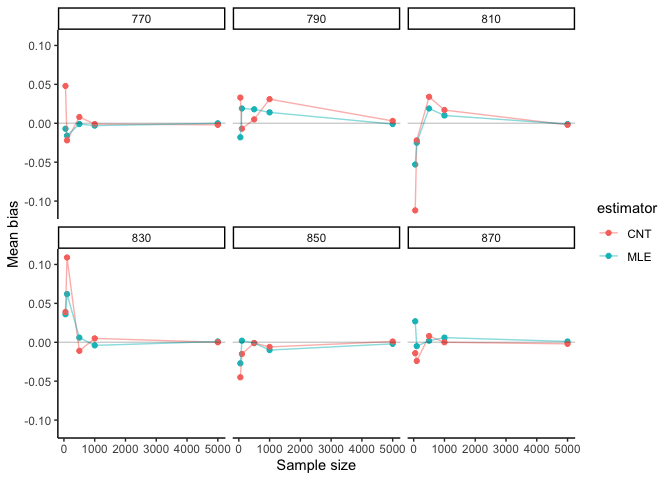
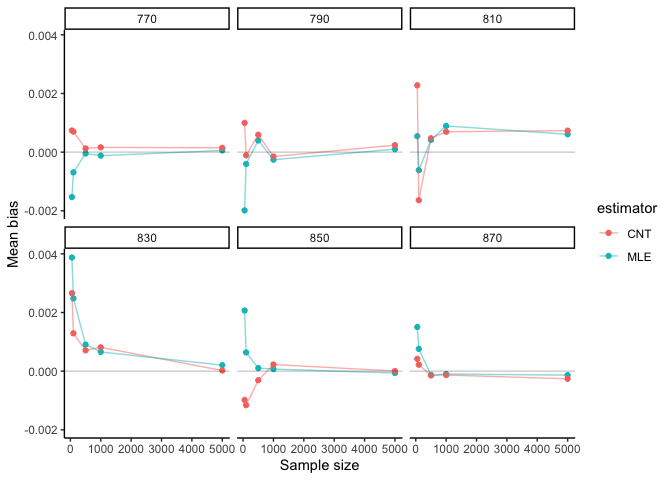
change to empirical variance

diff --git a/README.md b/README.md
@@ -74,108 +74,49 @@ sd(count_1)
 set.seed(222)
 library(data.table)
 library(dplyr)
-results <- rbindlist(lapply(c(50, 100, 500, 1000, 5000), function(n){
+results <- rbindlist(lapply(1:1000, function(i){
+  rbindlist(lapply(c(50, 100, 500, 1000, 5000), function(n){
   rbindlist(lapply(c(770, 790, 810, 830, 850, 870), function(param){
     x_pois <- round(rpois(n, param))
     
     # calculate lambda hat
     MLE_pois <- sum(x_pois)/n
-    
     # calculate true probability at cutoff
     trueProb <- ppois(816, param)
     
     par_MLE <- ppois(816, MLE_pois)
-    par_CNT <- mean(x_pois <= 816)
-    
-    # calculate asymptotic variance 
-    v_MLE <- par_MLE*(1-par_MLE)/sqrt(n)
-    v_CNT <- par_CNT*(1-par_CNT)/sqrt(n)
-    
-    # calculate MSE
-    MSE_MLE <- mean((par_MLE - trueProb)^2)
-    MSE_CNT <- mean((par_CNT - trueProb)^2)
+    par_CNT <- sum(x_pois <= 816)/n
+  
     
     # return estimates in data table
     data.table(n = c(n, n),
                estimator = factor(c("MLE", "CNT")),
                param_mu = c(param, param),
                trueProb = c(trueProb, trueProb), 
-               #estimate = c(MLE_pois, CNT),
-               #variances = c(var_pois, var_norm),
-               prob = c(par_MLE, par_CNT),
-               asymptotic_var = c(v_MLE, v_CNT),
-               MSE = c(MSE_MLE, MSE_CNT)
+               prob = c(par_MLE, par_CNT)
                )
   }))
   }))
+}))
 options(scipen = 999)
 results <- results %>%
-  mutate_if(is.numeric, round, digits=3)
+  mutate_if(is.numeric, round, digits=3) %>%
+  arrange(n, param_mu)
 results
 ```
 
-    ##        n estimator param_mu trueProb  prob asymptotic_var   MSE
-    ##  1:   50       MLE      770    0.952 0.945          0.007 0.000
-    ##  2:   50       CNT      770    0.952 1.000          0.000 0.002
-    ##  3:   50       MLE      790    0.827 0.809          0.022 0.000
-    ##  4:   50       CNT      790    0.827 0.860          0.017 0.001
-    ##  5:   50       MLE      810    0.592 0.539          0.035 0.003
-    ##  6:   50       CNT      810    0.592 0.480          0.035 0.013
-    ##  7:   50       MLE      830    0.321 0.357          0.032 0.001
-    ##  8:   50       CNT      830    0.321 0.360          0.033 0.001
-    ##  9:   50       MLE      850    0.125 0.098          0.013 0.001
-    ## 10:   50       CNT      850    0.125 0.080          0.010 0.002
-    ## 11:   50       MLE      870    0.034 0.061          0.008 0.001
-    ## 12:   50       CNT      870    0.034 0.020          0.003 0.000
-    ## 13:  100       MLE      770    0.952 0.936          0.006 0.000
-    ## 14:  100       CNT      770    0.952 0.930          0.007 0.000
-    ## 15:  100       MLE      790    0.827 0.846          0.013 0.000
-    ## 16:  100       CNT      790    0.827 0.820          0.015 0.000
-    ## 17:  100       MLE      810    0.592 0.567          0.025 0.001
-    ## 18:  100       CNT      810    0.592 0.570          0.025 0.001
-    ## 19:  100       MLE      830    0.321 0.383          0.024 0.004
-    ## 20:  100       CNT      830    0.321 0.430          0.025 0.012
-    ## 21:  100       MLE      850    0.125 0.127          0.011 0.000
-    ## 22:  100       CNT      850    0.125 0.110          0.010 0.000
-    ## 23:  100       MLE      870    0.034 0.029          0.003 0.000
-    ## 24:  100       CNT      870    0.034 0.010          0.001 0.001
-    ## 25:  500       MLE      770    0.952 0.951          0.002 0.000
-    ## 26:  500       CNT      770    0.952 0.960          0.002 0.000
-    ## 27:  500       MLE      790    0.827 0.845          0.006 0.000
-    ## 28:  500       CNT      790    0.827 0.832          0.006 0.000
-    ## 29:  500       MLE      810    0.592 0.611          0.011 0.000
-    ## 30:  500       CNT      810    0.592 0.626          0.010 0.001
-    ## 31:  500       MLE      830    0.321 0.327          0.010 0.000
-    ## 32:  500       CNT      830    0.321 0.310          0.010 0.000
-    ## 33:  500       MLE      850    0.125 0.124          0.005 0.000
-    ## 34:  500       CNT      850    0.125 0.124          0.005 0.000
-    ## 35:  500       MLE      870    0.034 0.036          0.002 0.000
-    ## 36:  500       CNT      870    0.034 0.042          0.002 0.000
-    ## 37: 1000       MLE      770    0.952 0.949          0.002 0.000
-    ## 38: 1000       CNT      770    0.952 0.951          0.001 0.000
-    ## 39: 1000       MLE      790    0.827 0.841          0.004 0.000
-    ## 40: 1000       CNT      790    0.827 0.858          0.004 0.001
-    ## 41: 1000       MLE      810    0.592 0.602          0.008 0.000
-    ## 42: 1000       CNT      810    0.592 0.609          0.008 0.000
-    ## 43: 1000       MLE      830    0.321 0.317          0.007 0.000
-    ## 44: 1000       CNT      830    0.321 0.326          0.007 0.000
-    ## 45: 1000       MLE      850    0.125 0.115          0.003 0.000
-    ## 46: 1000       CNT      850    0.125 0.119          0.003 0.000
-    ## 47: 1000       MLE      870    0.034 0.040          0.001 0.000
-    ## 48: 1000       CNT      870    0.034 0.034          0.001 0.000
-    ## 49: 5000       MLE      770    0.952 0.952          0.001 0.000
-    ## 50: 5000       CNT      770    0.952 0.950          0.001 0.000
-    ## 51: 5000       MLE      790    0.827 0.826          0.002 0.000
-    ## 52: 5000       CNT      790    0.827 0.830          0.002 0.000
-    ## 53: 5000       MLE      810    0.592 0.591          0.003 0.000
-    ## 54: 5000       CNT      810    0.592 0.590          0.003 0.000
-    ## 55: 5000       MLE      830    0.321 0.322          0.003 0.000
-    ## 56: 5000       CNT      830    0.321 0.321          0.003 0.000
-    ## 57: 5000       MLE      850    0.125 0.123          0.002 0.000
-    ## 58: 5000       CNT      850    0.125 0.126          0.002 0.000
-    ## 59: 5000       MLE      870    0.034 0.035          0.000 0.000
-    ## 60: 5000       CNT      870    0.034 0.032          0.000 0.000
-    ##        n estimator param_mu trueProb  prob asymptotic_var   MSE
+    ##           n estimator param_mu trueProb  prob
+    ##     1:   50       MLE      770    0.952 0.945
+    ##     2:   50       CNT      770    0.952 1.000
+    ##     3:   50       MLE      770    0.952 0.974
+    ##     4:   50       CNT      770    0.952 1.000
+    ##     5:   50       MLE      770    0.952 0.946
+    ##    ---                                       
+    ## 59996: 5000       CNT      870    0.034 0.035
+    ## 59997: 5000       MLE      870    0.034 0.034
+    ## 59998: 5000       CNT      870    0.034 0.035
+    ## 59999: 5000       MLE      870    0.034 0.032
+    ## 60000: 5000       CNT      870    0.034 0.027
 
 ## Evaluation
 
@@ -188,12 +129,12 @@ head(bias_sim)
 ```
 
     ##     n param_mu estimator mean_bias
-    ## 1: 50      770       MLE    -0.007
-    ## 2: 50      770       CNT     0.048
-    ## 3: 50      790       MLE    -0.018
-    ## 4: 50      790       CNT     0.033
-    ## 5: 50      810       MLE    -0.053
-    ## 6: 50      810       CNT    -0.112
+    ## 1: 50      770       MLE -0.001531
+    ## 2: 50      770       CNT  0.000740
+    ## 3: 50      790       MLE -0.001987
+    ## 4: 50      790       CNT  0.001000
+    ## 5: 50      810       MLE  0.000545
+    ## 6: 50      810       CNT  0.002280
 
 ``` r
 library(ggplot2)
@@ -214,17 +155,17 @@ bias_sim %>%
 #### MSE
 
 ``` r
-mse_sim <- results[, .(mean_mse = asymptotic_var+ mean((prob - trueProb)^2)), by = c("n", "param_mu", "estimator")]
+mse_sim <- results[, .(mean_mse = mean(var(prob)+ (prob - trueProb)^2)), by = c("n", "param_mu", "estimator")]
 head(mse_sim)
 ```
 
-    ##     n param_mu estimator mean_mse
-    ## 1: 50      770       MLE 0.007049
-    ## 2: 50      770       CNT 0.002304
-    ## 3: 50      790       MLE 0.022324
-    ## 4: 50      790       CNT 0.018089
-    ## 5: 50      810       MLE 0.037809
-    ## 6: 50      810       CNT 0.047544
+    ##     n param_mu estimator    mean_mse
+    ## 1: 50      770       MLE 0.000441994
+    ## 2: 50      770       CNT 0.001725595
+    ## 3: 50      790       MLE 0.002596315
+    ## 4: 50      790       CNT 0.005639020
+    ## 5: 50      810       MLE 0.006419556
+    ## 6: 50      810       CNT 0.009544534
 
 ``` r
 # Plot of MSE, facet by lambda
@@ -243,18 +184,18 @@ mse_sim %>%
 #### Variance
 
 ``` r
-estimator_var <- results[, .(var_est = asymptotic_var), 
+estimator_var <- results[, .(var_est = mean(var(prob))), 
                          by = c("n", "param_mu", "estimator")]
 head(estimator_var)
 ```
 
-    ##     n param_mu estimator var_est
-    ## 1: 50      770       MLE   0.007
-    ## 2: 50      770       CNT   0.000
-    ## 3: 50      790       MLE   0.022
-    ## 4: 50      790       CNT   0.017
-    ## 5: 50      810       MLE   0.035
-    ## 6: 50      810       CNT   0.035
+    ##     n param_mu estimator      var_est
+    ## 1: 50      770       MLE 0.0002199350
+    ## 2: 50      770       CNT 0.0008629554
+    ## 3: 50      790       MLE 0.0012968317
+    ## 4: 50      790       CNT 0.0028204204
+    ## 5: 50      810       MLE 0.0032112352
+    ## 6: 50      810       CNT 0.0047720537
 
 ``` r
 # Plot of variance
